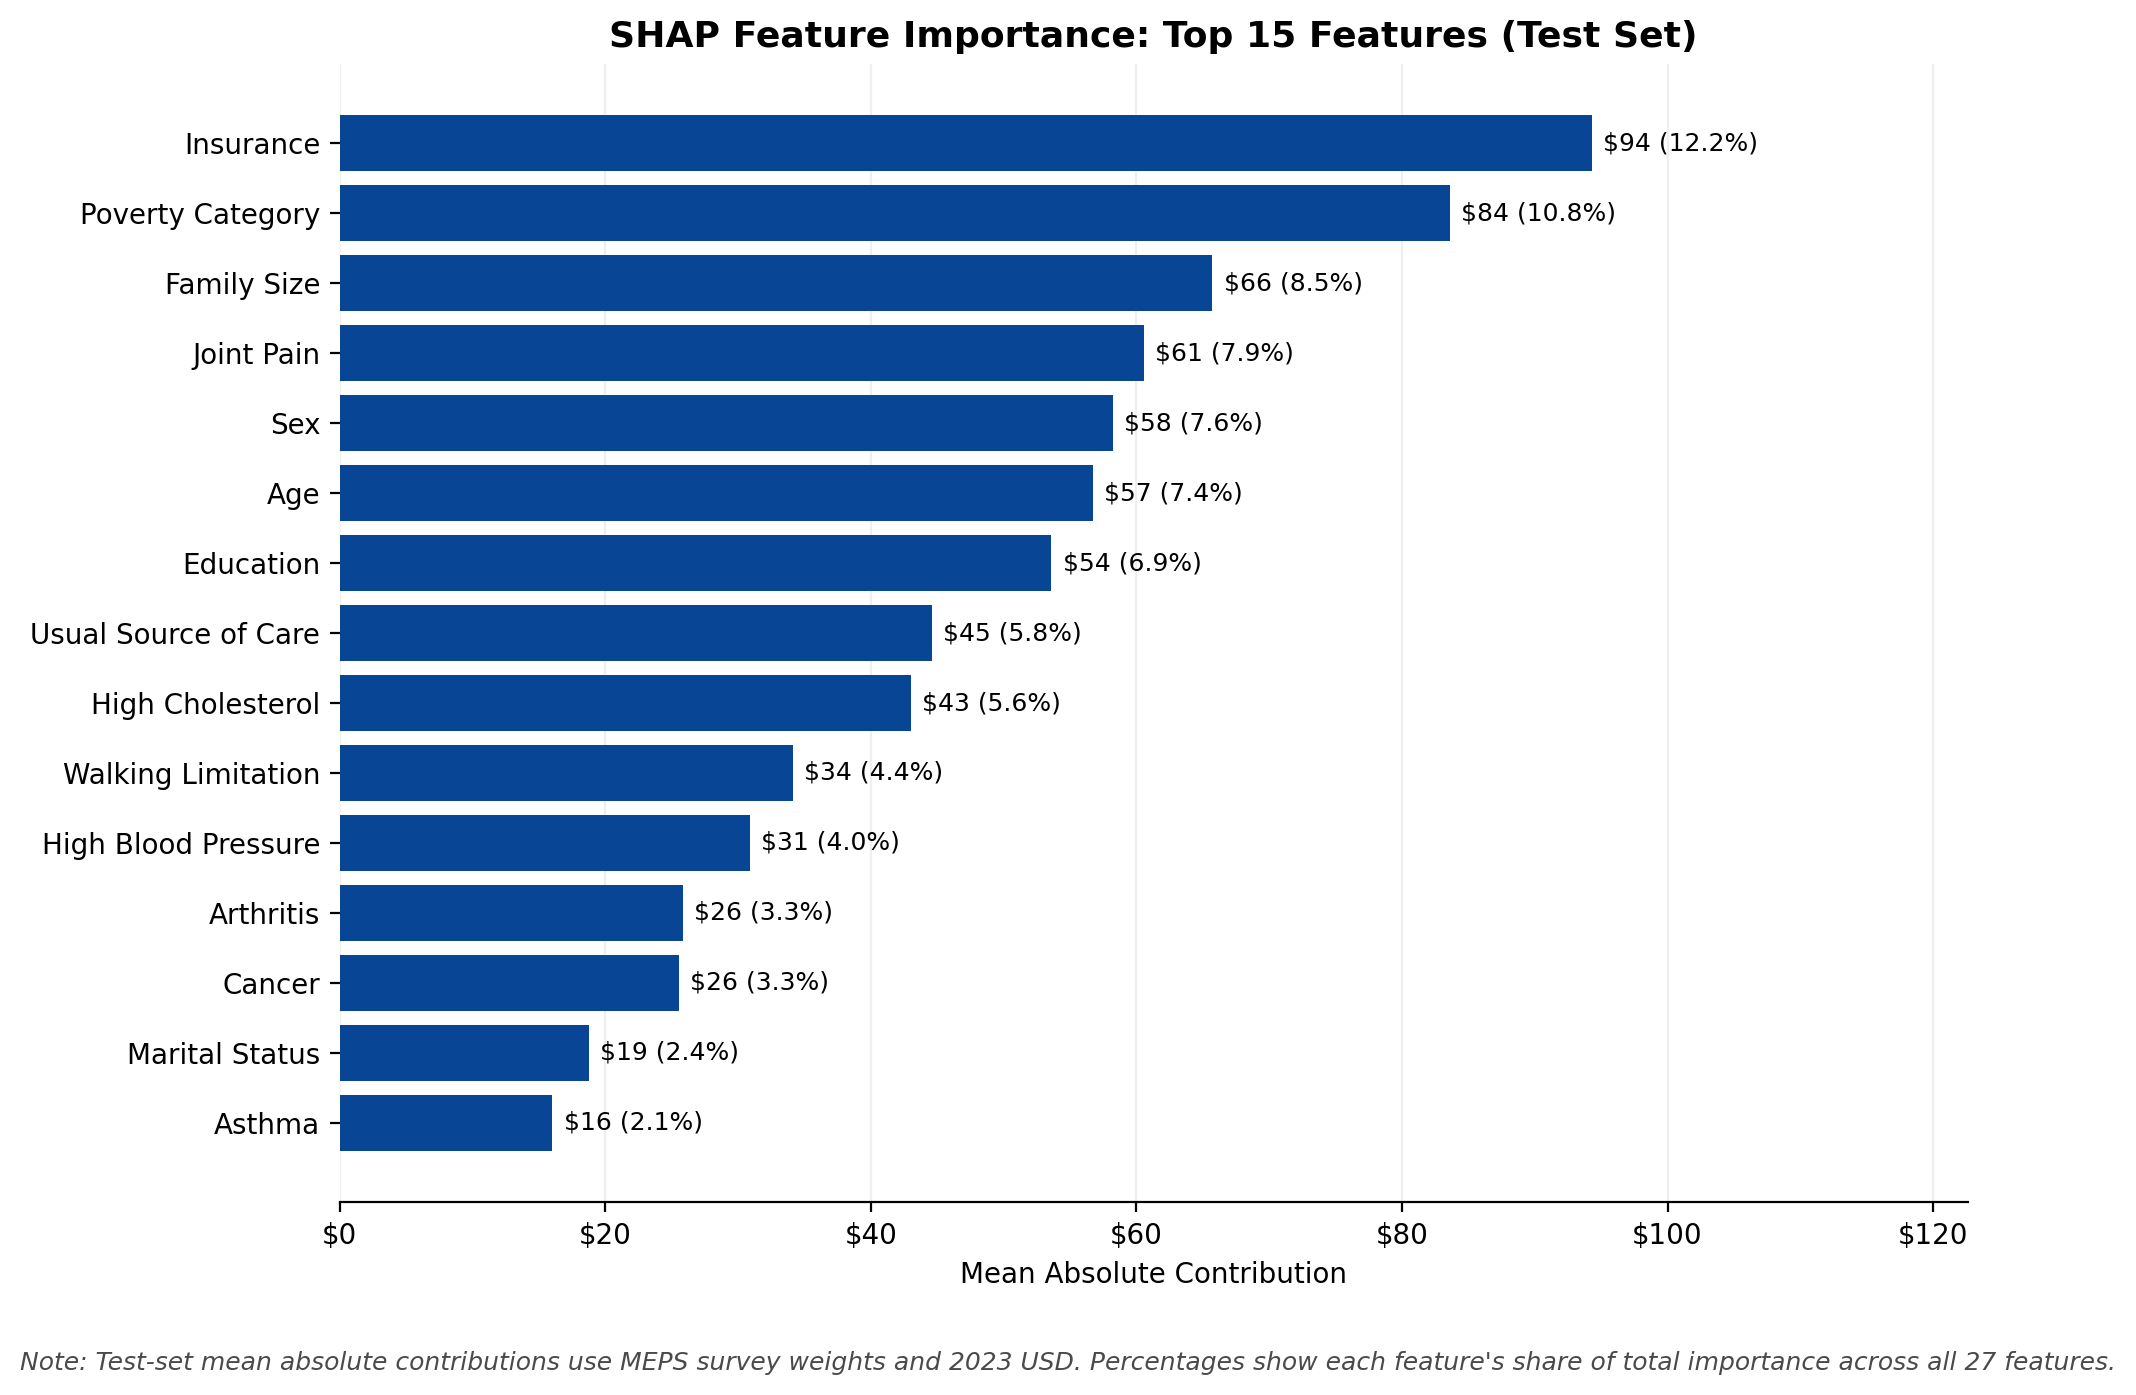
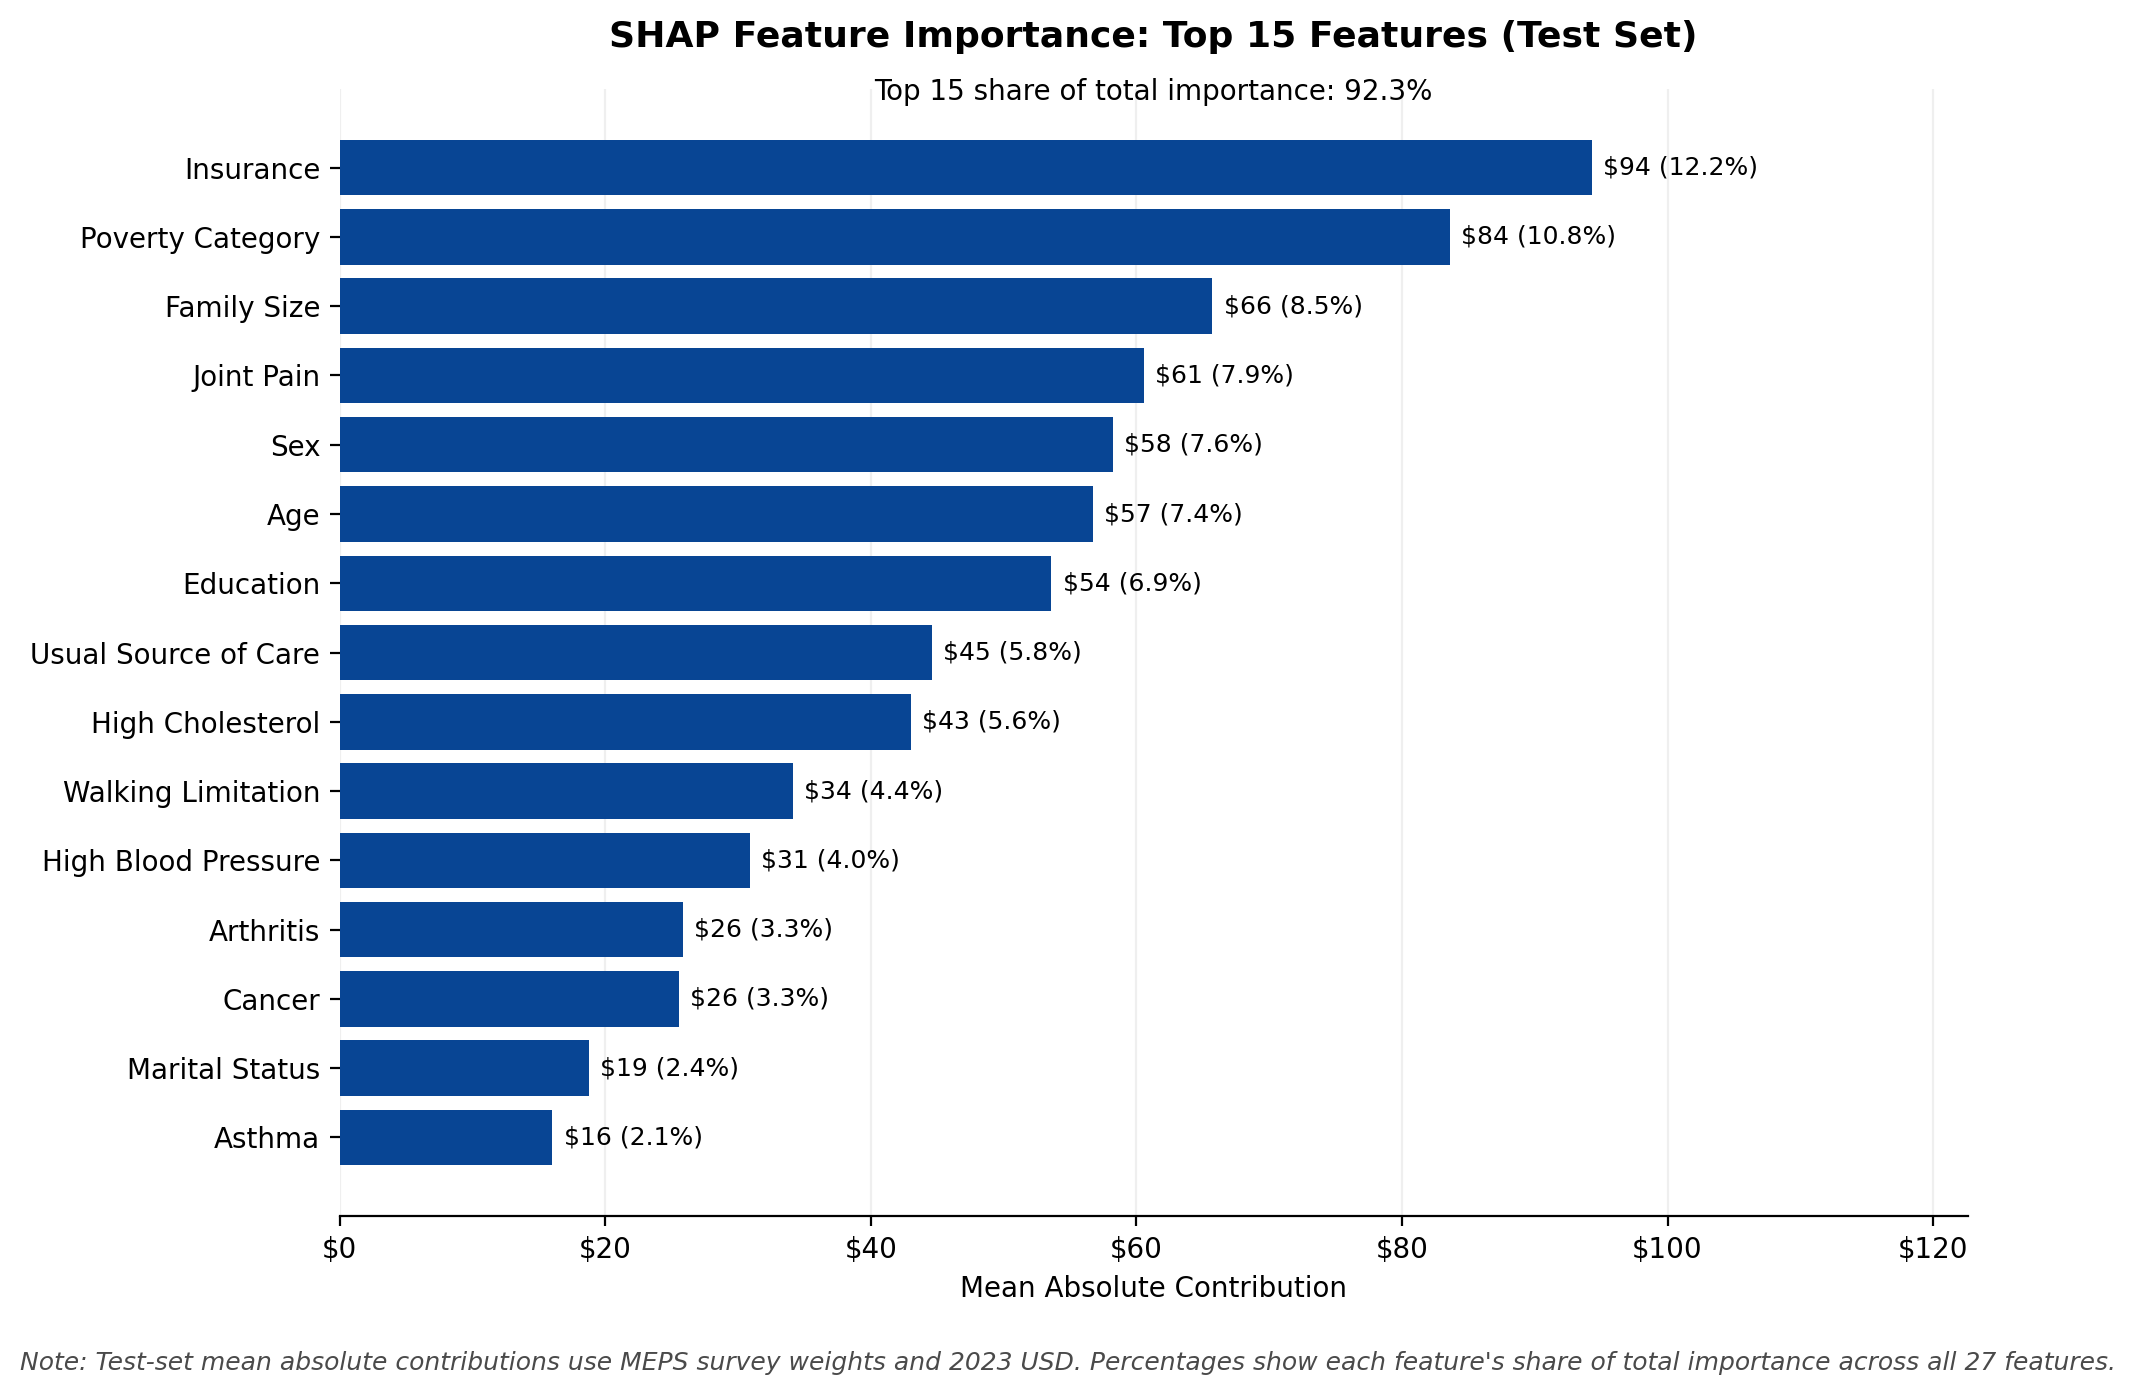
refactor(eval): add SHAP feature importance summary

diff --git a/notebooks/2_modeling.py b/notebooks/2_modeling.py
@@ -5579,6 +5579,9 @@ display(
 shap_top_15 = shap_feature_importance.head(15).sort_values(
     "Mean Absolute Contribution"
 )
+top_15_importance_share = shap_top_15[
+    "Share of Total Importance"
+].sum()
 
 fig, ax = plt.subplots(figsize=(10, 7))
 bars = ax.barh(
@@ -5609,6 +5612,16 @@ ax.set_title(
     "SHAP Feature Importance: Top 15 Features (Test Set)",
     fontsize=13,
     fontweight="bold",
+    pad=15,
+)
+ax.text(
+    0.5,
+    0.99,
+    f"Top 15 share of total importance: {top_15_importance_share:.1%}",
+    transform=ax.transAxes,
+    ha="center",
+    fontsize=10,
+    fontweight="normal",
 )
 ax.set_xlabel("Mean Absolute Contribution")
 ax.set_ylabel("")
@@ -5630,7 +5643,7 @@ fig.text(
     style="italic",
     color="#4A4A4A",
 )
-fig.tight_layout(rect=(0, 0.05, 1, 1))
+fig.tight_layout(rect=(0, 0.04, 1, 1))
 fig.savefig(
     "../figures/evaluation/shap_feature_importance.png",
     bbox_inches="tight",
